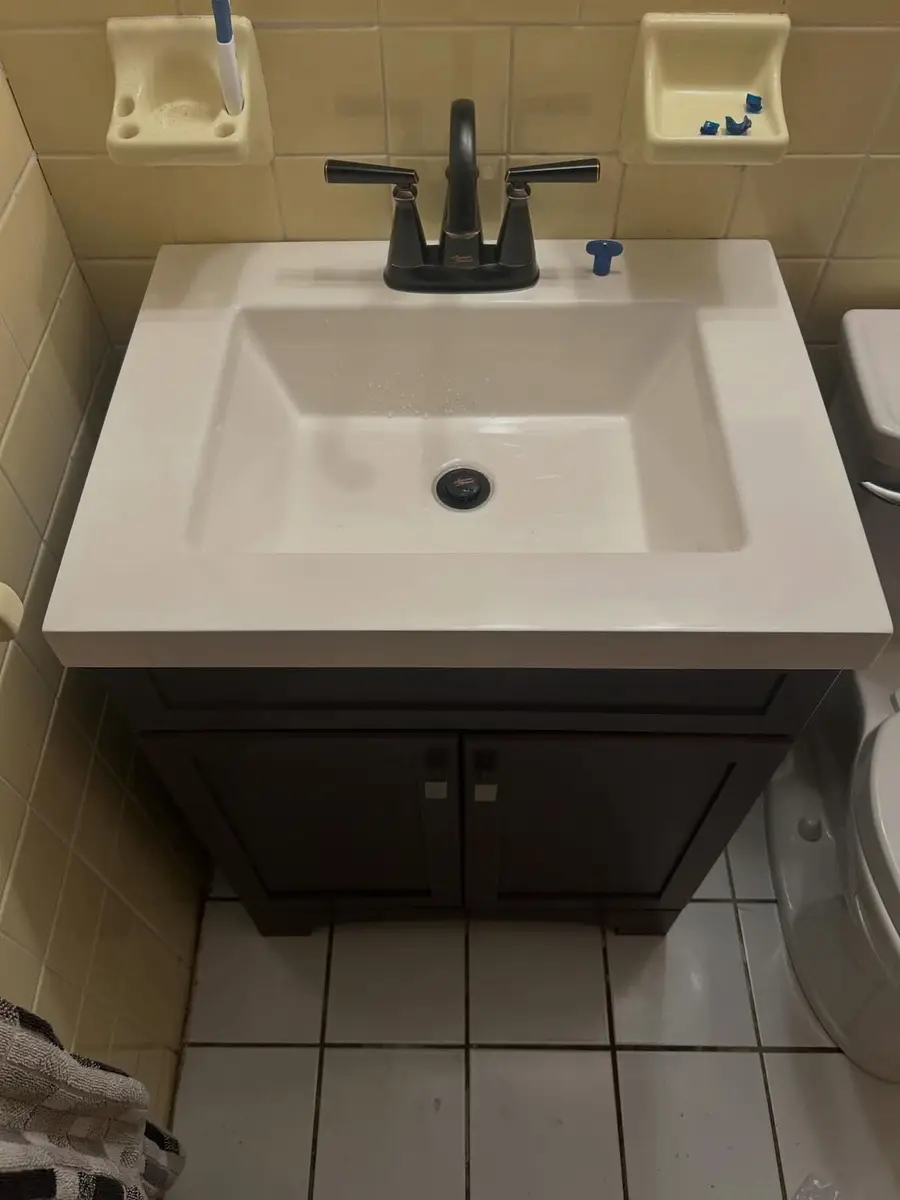
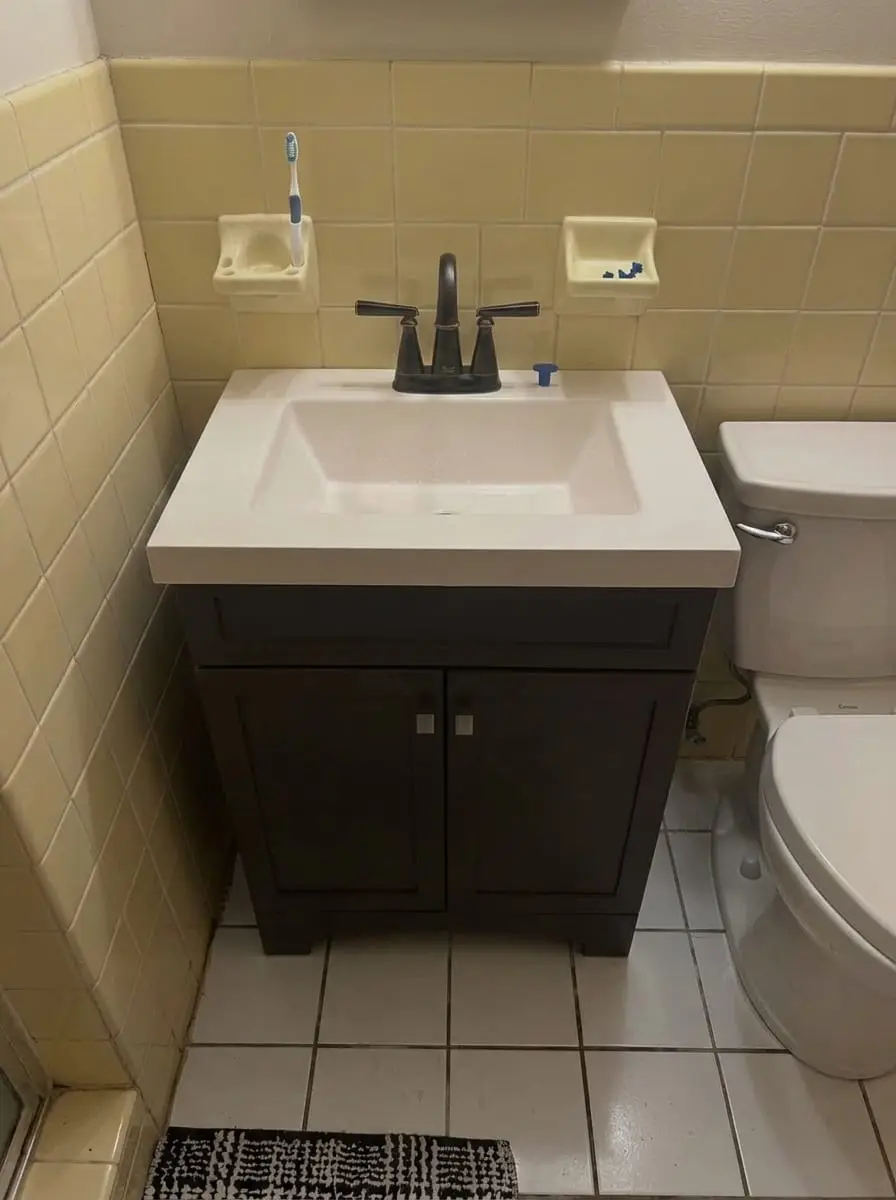
Widen two close-up photos with Flow (hose spigot, Peabody vanity); document the zoom-out rule
- frost-free-hose-bib-swap shot-1 and peabody-vanity-swap shot-2 are zoom-outs of simple subjects; marked edited in jobs.json; untouched originals kept in the vault.
- optimize-job-images keeps the edited marker; README records when a zoom-out is allowed.

diff --git a/README.md b/README.md
@@ -63,7 +63,7 @@ Build-time settings (`PUBLIC_*`) must be in the shell that runs `astro build`; t
 - **Held until Shane supplies a job:** Melrose, Wakefield, Everett, Boston (no post or photo at all) and Tewksbury (one caption line, no photo). Georgetown, Weston, Billerica and North Reading appear in his photos but are not on the confirmed list, so they are never named as places he works.
 - **Where the photos came from:** Shane's public business Instagram, pulled 2026-10-24 and archived with a manifest in the vault (`_context/harvest/2026-10-24-instagram/`). Job photos only: no family, faces, house numbers or customer details. Each job's date is the month the photos were shared, shown as "Photos from <month year>".
 - **Adding a job:** put `shot-N.jpg` (long side 1600 px, metadata stripped) in `public/images/jobs/<slug>/`, add the job to `src/jobs.json` with a `photos[].original` and `alt`, then `npm run optimize:images`.
-- **Retouching photos (clutter only):** Google Flow can remove a bucket or tool bag, but on busy scenes it re-draws the plumbing (a Somerville rough-in came back with the valve box and copper moved). Rule: the real photo stays everywhere except small feathered boxes where Flow's clean pixels are pasted in, and the whole frame is diffed against the original first. Never regenerate a scene or invent an angle: a generated view shows pipe layout that does not exist.
+- **Retouching photos (clutter only):** Google Flow can remove a bucket or tool bag, but on busy scenes it re-draws the plumbing (a Somerville rough-in came back with the valve box and copper moved). Rule: the real photo stays everywhere except small feathered boxes where Flow's clean pixels are pasted in, and the whole frame is diffed against the original first. Never regenerate a scene or invent an angle: a generated view shows pipe layout that does not exist. **Zoom-outs** ("show the full shot") work only on simple subjects with nothing running off the edge of the photo: two were done on 2026-10-24 (a hose spigot on siding, a vanity and sink), marked `edited` in `src/jobs.json`, untouched originals kept in the vault harvest folder (`before-widen-*.jpg`). A zoom-out re-draws the whole frame (the first spigot came back faithful; one with a hose and brass fittings came back with the fittings changed and was rejected), so look at every result closely. Close-ups of pipe runs, valves and fittings are never widened: retake them wide instead (`_context/gbp-photo-checklist.md`, "Wide shot first").
 - **Service pages that reuse a form id:** a service in `src/services.json` may set `service_id` (for example `sump-pump-ejector-pumps` uses `general-plumbing`) so no new id is added to `service-options.json`.
 
 ## Stable ids (do not rename)
